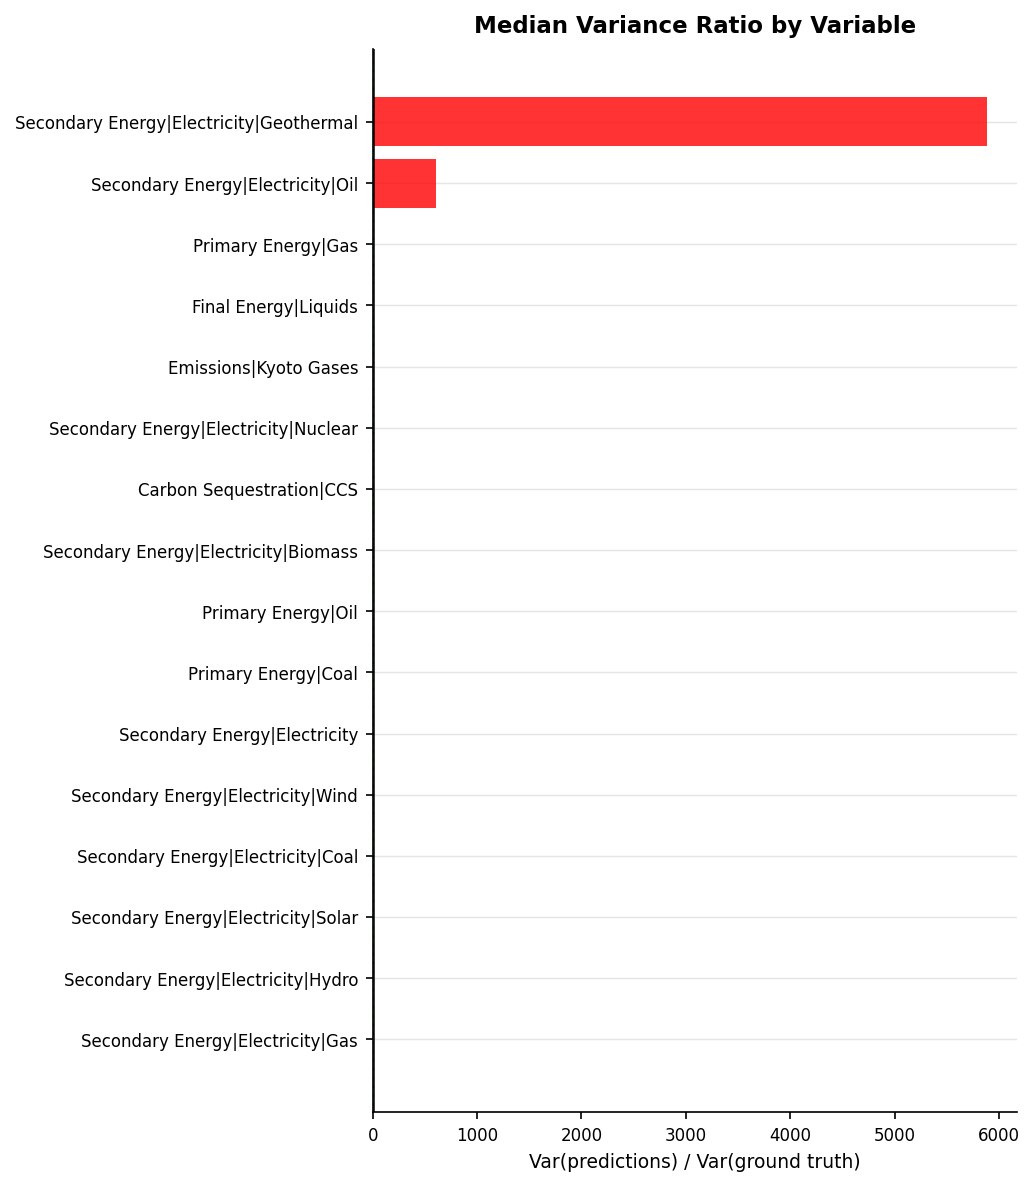
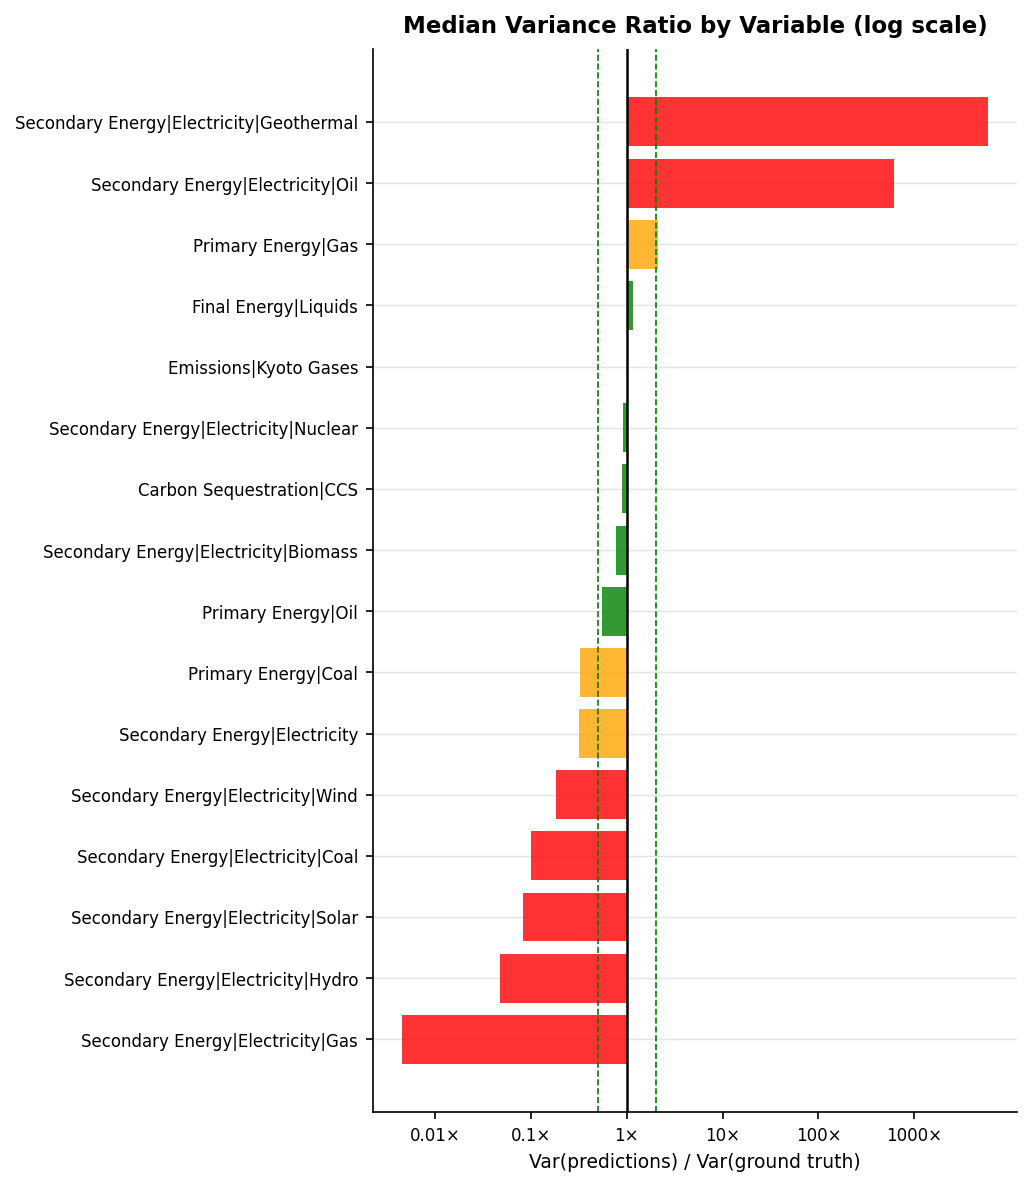
log scale variance ratio in plot

diff --git a/make_val_report.py b/make_val_report.py
@@ -1179,44 +1179,55 @@ def section_variance_fidelity(run_dir: Path, fig_dir: Path) -> tuple:
                       "above 1.0 it is over-dispersed._\n\n"
                       + md_table(tbl))
 
-    # Figure: variance ratio distribution
+    # Figure: variance ratio distribution (log scale)
     fig, ax = plt.subplots(figsize=(7, 3.5))
-    var_ratios = active["Var_Ratio"].dropna().clip(upper=8.0)
-    ax.hist(var_ratios, bins=50, color=C_PRED, alpha=0.8)
-    ax.axvline(1.0,          color="black", linewidth=1.2, linestyle="-",  label="Perfect fidelity (1.0)")
-    ax.axvline(_PASS_LO,     color="green", linewidth=1.0, linestyle="--", label=f"PASS bounds ({_PASS_LO}–{_PASS_HI}×)")
-    ax.axvline(_PASS_HI,     color="green", linewidth=1.0, linestyle="--")
-    ax.axvline(_WARN_LO,     color="orange",linewidth=0.8, linestyle=":",  label=f"WARN bounds ({_WARN_LO}–{_WARN_HI}×)")
-    ax.axvline(_WARN_HI,     color="orange",linewidth=0.8, linestyle=":")
+    log_ratios = np.log10(active["Var_Ratio"].dropna().replace(0, np.nan).dropna())
+    ax.hist(log_ratios, bins=50, color=C_PRED, alpha=0.8)
+    for val, col, lw, ls, lbl in [
+        (0,                       "black",  1.2, "-",  "Perfect fidelity (1.0)"),
+        (np.log10(_PASS_LO),      "green",  1.0, "--", f"PASS bounds ({_PASS_LO}–{_PASS_HI}×)"),
+        (np.log10(_PASS_HI),      "green",  1.0, "--", None),
+        (np.log10(_WARN_LO),      "orange", 0.8, ":",  f"WARN bounds ({_WARN_LO}–{_WARN_HI}×)"),
+        (np.log10(_WARN_HI),      "orange", 0.8, ":",  None),
+    ]:
+        ax.axvline(val, color=col, linewidth=lw, linestyle=ls,
+                   label=lbl if lbl else "_nolegend_")
+    ax.set_xticks([-2, -1, 0, 1, 2, 3])
+    ax.set_xticklabels(["0.01×", "0.1×", "1×", "10×", "100×", "1000×"])
     ax.legend(fontsize=7)
-    style_ax(ax, title="Variance Ratio Distribution (capped at 8×)",
+    style_ax(ax, title="Variance Ratio Distribution (log scale)",
              xlabel="Var(predictions) / Var(ground truth)", ylabel="Count")
     fig.tight_layout()
     rel = save_fig(fig, fig_dir, "variance_fidelity_distribution")
     figures.append(rel)
     blocks.append(f"### Variance Ratio Distribution\n\n![Variance ratio distribution]({rel})")
 
-    # Figure: median variance ratio per variable
+    # Figure: median variance ratio per variable (log scale)
     if summary is not None and not summary.empty:
         s = summary.dropna(subset=["Median_Var_Ratio"]).sort_values("Median_Var_Ratio")
-        fig, ax = plt.subplots(figsize=(7, max(3, len(s) * 0.5)))
+        log_vals = np.log10(s["Median_Var_Ratio"].replace(0, np.nan))
         colours = [
             "green" if _PASS_LO <= r <= _PASS_HI
             else "orange" if _WARN_LO <= r <= _WARN_HI
             else "red"
             for r in s["Median_Var_Ratio"]
         ]
-        ax.barh(s["Variable"], s["Median_Var_Ratio"], color=colours, alpha=0.8)
-        ax.axvline(1.0,      color="black", linewidth=1.2, linestyle="-")
-        ax.axvline(_PASS_LO, color="green", linewidth=0.8, linestyle="--")
-        ax.axvline(_PASS_HI, color="green", linewidth=0.8, linestyle="--")
-        style_ax(ax, title="Median Variance Ratio by Variable",
+        fig, ax = plt.subplots(figsize=(7, max(3, len(s) * 0.5)))
+        ax.barh(s["Variable"], log_vals, color=colours, alpha=0.8)
+        ax.axvline(0,                  color="black",  linewidth=1.2, linestyle="-")
+        ax.axvline(np.log10(_PASS_LO), color="green",  linewidth=0.8, linestyle="--")
+        ax.axvline(np.log10(_PASS_HI), color="green",  linewidth=0.8, linestyle="--")
+        ticks = [-2, -1, 0, 1, 2, 3]
+        ax.set_xticks(ticks)
+        ax.set_xticklabels(["0.01×", "0.1×", "1×", "10×", "100×", "1000×"])
+        style_ax(ax, title="Median Variance Ratio by Variable (log scale)",
                  xlabel="Var(predictions) / Var(ground truth)")
         fig.tight_layout()
         rel = save_fig(fig, fig_dir, "variance_fidelity_by_variable")
         figures.append(rel)
         blocks.append(f"### Median Variance Ratio by Variable\n\n"
-                      f"_Green = PASS, orange = WARN, red = FAIL._\n\n"
+                      f"_Log scale — green = PASS, orange = WARN, red = FAIL. "
+                      f"Bars left of centre = under-dispersed; right = over-dispersed._\n\n"
                       f"![Variance ratio by variable]({rel})")
 
     return "\n\n".join(blocks) + "\n", figures

diff --git a/reports/li_vae_01/report.md b/reports/li_vae_01/report.md
@@ -1,7 +1,7 @@
 # Validation Report: li_vae_01
 
 **Run ID:** `li_vae_01`
-**Generated:** 2026-05-12 15:31
+**Generated:** 2026-05-12 15:34
 **Results:** `results/li_vae_01/`
 
 ---
@@ -356,7 +356,7 @@ _Median variance ratio and CV ratio across regions. Values below 1.0 indicate th
 
 ### Median Variance Ratio by Variable
 
-_Green = PASS, orange = WARN, red = FAIL._
+_Log scale — green = PASS, orange = WARN, red = FAIL. Bars left of centre = under-dispersed; right = over-dispersed._
 
 ![Variance ratio by variable](figures/variance_fidelity_by_variable.png)
 

diff --git a/reports/shin_01/report.md b/reports/shin_01/report.md
@@ -1,7 +1,7 @@
 # Validation Report: shin_01
 
 **Run ID:** `shin_01`
-**Generated:** 2026-05-12 15:30
+**Generated:** 2026-05-12 15:34
 **Results:** `results/shin_01/`
 
 ---
@@ -387,7 +387,7 @@ _Median variance ratio and CV ratio across regions. Values below 1.0 indicate th
 
 ### Median Variance Ratio by Variable
 
-_Green = PASS, orange = WARN, red = FAIL._
+_Log scale — green = PASS, orange = WARN, red = FAIL. Bars left of centre = under-dispersed; right = over-dispersed._
 
 ![Variance ratio by variable](figures/variance_fidelity_by_variable.png)
 
